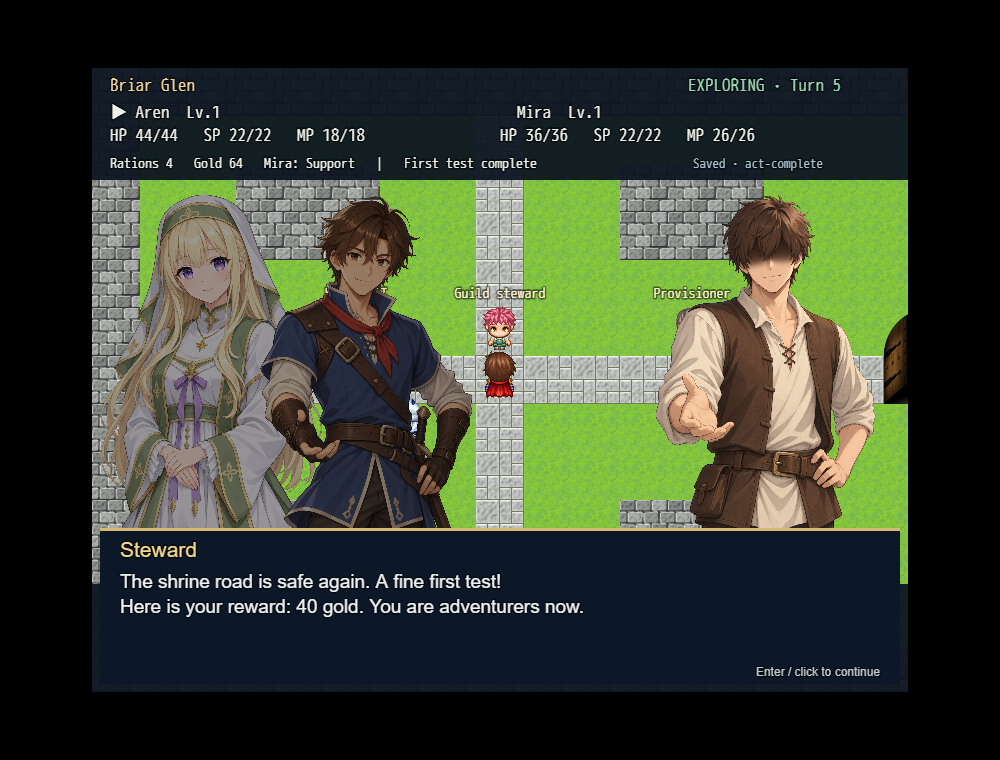
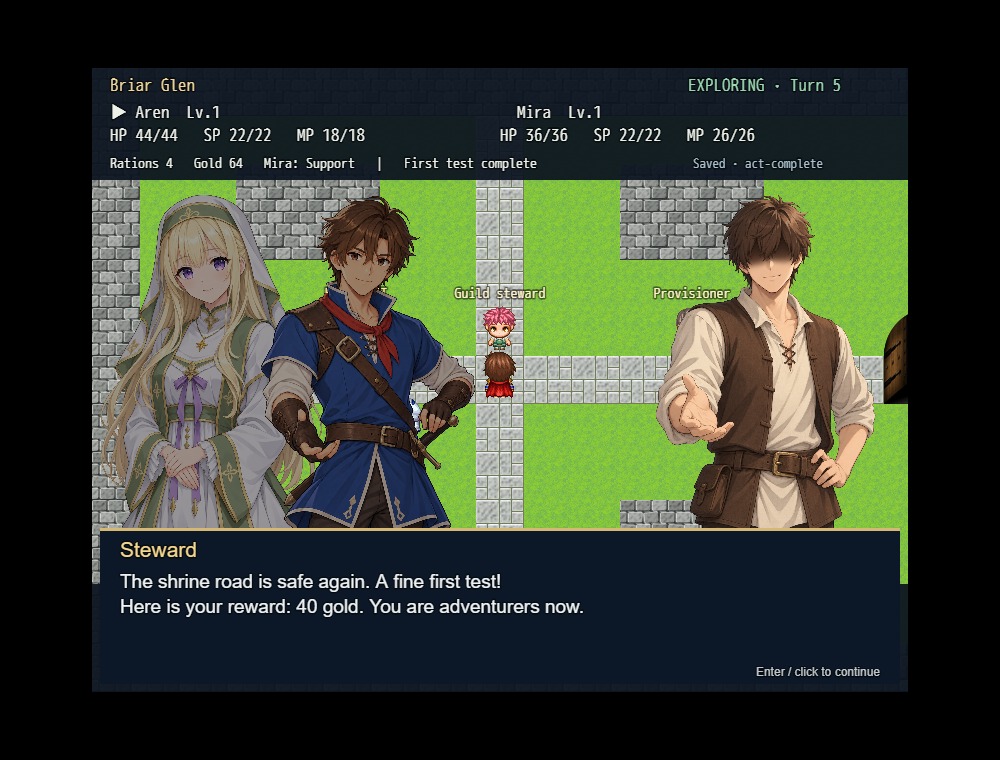
Correct Aren portrait and require approved agent commits

Changed region(s): [[0.248, 0.3329, 0.496, 0.6961]]

diff --git a/src/js/plugins/FirstJourneyPresentation.js b/src/js/plugins/FirstJourneyPresentation.js
@@ -10,7 +10,7 @@
     "use strict";
     const R = FirstJourneyRules;
     const current = () => $gameSystem._firstJourney;
-    const portraits = { Aren: "ArenPortrait", Mira: "MiraPortrait", Steward: "VillagerMalePortrait", Provisioner: "VillagerFemalePortrait" };
+    const portraits = { Aren: "ArenPortrait-v3", Mira: "MiraPortrait", Steward: "VillagerMalePortrait", Provisioner: "VillagerFemalePortrait" };
     const position = unit => ({ x: $gameMap.adjustX(unit.x) * 48 + 24, y: $gameMap.adjustY(unit.y) * 48 + 20 });
     const directions = { down: [0, 1], left: [-1, 0], right: [1, 0], up: [0, -1] };
     function wrapped(bitmap, text, x, y, width, lineHeight = 29) {

diff --git a/Addons/FirstJourneyArt/Aren-longsword-edit.md b/Addons/FirstJourneyArt/Aren-longsword-edit.md
@@ -1,0 +1,23 @@
+# Aren longsword correction
+
+## Left-waist placement correction (current)
+
+Source: `src/img/pictures/ArenPortrait-v2.png`, preserved unchanged.
+Final: `src/img/pictures/ArenPortrait-v3.png`, generated with the built-in image tool.
+The pommel projects toward viewer right at Aren's left hip. The aligned scabbard extends down-left behind his waist, occluded by his tunic. The runtime dialogue mapping uses v3.
+
+Prompt:
+
+Use case: precise-object-edit. Edit the supplied Aren portrait. Correct ONLY the sword placement, belt attachment and resting hand contact. User's exact requirement: sword at Aren's anatomical LEFT waist (viewer RIGHT); pommel toward image RIGHT, scabbard/body toward image LEFT, with the sword body BEHIND Aren's waist. Remove the current front-hanging sword completely. Place a single sheathed longsword suspended at his left hip, hilt projecting diagonally UP-RIGHT from its crossguard on the right side of his waist; the straight scabbard runs from that same crossguard diagonally DOWN-LEFT BEHIND his hips and tunic. His opaque body and clothing must OCCLUDE the middle of the scabbard: do not draw a scabbard across the front of his belt, abdomen or thighs. Only a small continuation may emerge behind his opposite hip on viewer left. Pommel, long two-handed grip, crossguard center and scabbard all lie on one consistent straight axis sloping down-left. Clearly a longsword, not a dagger. Keep his resting left hand natural at the hilt/hip. Preserve exact face, expression, hairstyle, blue tunic, red scarf, leather equipment, outstretched right hand, body pose, head-to-thigh crop, scale, colors and anime rendering. Genuine alpha-transparent background, opaque character silhouette. No scenery, text, duplicated weapons or extra hands.
+
+## Previous proportions correction
+
+- Source: `src/img/pictures/ArenPortrait.png` (original preserved).
+- Final runtime asset: `src/img/pictures/ArenPortrait-v2.png`.
+- Method: built-in image generation, precise-object edit of the original generated portrait; no external artwork imported.
+- Changes: elongated two-handed grip, substantial crossguard, and straight scabbard aligned along the same axis. Preserved face, clothing, pose, framing, and transparent silhouette.
+- The dialogue portrait mapping uses the new version. The shared `assets/` library was not modified.
+
+## Final prompt
+
+Use case: precise-object-edit. Edit target: the supplied existing anime portrait of Aren. Correct ONLY the sword and its immediate belt attachment/hand overlap as needed. Replace the stubby, crooked dagger-like weapon at his left hip (viewer right) with a convincingly full-sized sheathed longsword. The pommel, elongated two-hand leather grip, center of the crossguard, and long straight scabbard MUST share one continuous straight axis, angled gently down toward the lower right. A substantial straight symmetrical crossguard, grip long enough for two hands, and a scabbard that continues beyond the bottom crop establish longsword proportions. Do not bend or offset the scabbard relative to the hilt. Keep his resting hand anatomically natural beside/on the scabbard, not through the weapon. Preserve Aren's exact face, hairstyle, expression, pose, blue tunic, red scarf, leather straps, open outstretched hand, colors, anime linework, shading, and original portrait framing. Output a PNG character cutout with genuine transparent alpha outside his silhouette, opaque character interior, no dark gradient backdrop, no checkerboard or scenery. Keep the same head-to-thigh composition; do not shrink the character to show the entire sword.

diff --git a/AGENTS.md b/AGENTS.md
@@ -41,9 +41,31 @@ coverage target.
 
 ## Commit & Pull Request Guidelines
 
-No Git history is available in this workspace, so use concise imperative commit
-subjects (for example, `Add innkeeper dialogue`). Keep unrelated assets and
-game-data changes out of the same commit. Pull requests should describe player-
+This workspace is a Git repository. After each completed task that changes
+project files, run the appropriate checks, review the diff, and summarize the
+changes for the user. Create a commit only after the user explicitly approves
+that commit. Completing a task or approving an earlier commit does not grant
+approval for a new commit. Leave changes uncommitted until approval is given.
+Stage only files belonging to the approved commit; preserve unrelated user
+changes and never include player saves.
+For every commit performed by this agent, use `Codex Agent` with email
+`mira.dev.agent@gmail.com` as both author and committer. Preserve the user's
+default Git identity. Local commits do not require a GitHub access token;
+never store tokens in project files, commit messages, or Git remote URLs.
+After user approval, use the repository-local `git agent-commit` alias, or its
+equivalent: `git -c user.name="Codex Agent" -c user.email=mira.dev.agent@gmail.com commit`.
+The alias only selects the agent identity; it does not grant commit approval.
+For agent pushes, authenticate as GitHub account `Mira-Dev-Agent` using Git
+Credential Manager. This repository selects that account with local
+`credential.https://github.com.username` and enables `useHttpPath` to scope
+credential selection by repository. Never fall back to the user's personal
+account if agent authentication or repository access fails.
+Do not rewrite existing commits to change their authors unless requested.
+Use concise imperative commit subjects (for example, `Add innkeeper dialogue`).
+Do not create empty commits for tasks with no file changes, and do not push
+unless the user requests it. Report the commit hash after an approved commit.
+Keep unrelated assets and game-data changes out of the same commit.
+Pull requests should describe player-
 visible behavior, list modified maps/data/plugins, link the relevant issue when
 available, and include screenshots or a short capture for visual/UI changes.
 Mention any added asset's source and license.

diff --git a/Addons/FirstJourneyArt/ART_SOURCES.md b/Addons/FirstJourneyArt/ART_SOURCES.md
@@ -1,5 +1,8 @@
 # Portrait sources and prompts
 
+Aren's current runtime portrait is `src/img/pictures/ArenPortrait-v3.png`.
+See [the longsword correction](Aren-longsword-edit.md) for the source and final edit prompt.
+
 All four portraits were generated with the built-in image generation tool for this project. No reference images were downloaded into the game. Final images are under `Project1/img/pictures/`: `ArenPortrait.png`, `MiraPortrait.png`, `VillagerMalePortrait.png`, and `VillagerFemalePortrait.png`.
 
 Mira's requested character-design reference is Elise Katharina von Hohenheim from *Hachi-nan tte, Sore wa Nai deshou!*. Reference identification: [Frontier Works official character announcement](https://www.fwinc.co.jp/news/56128/). These are generated game portraits, not official character art.
